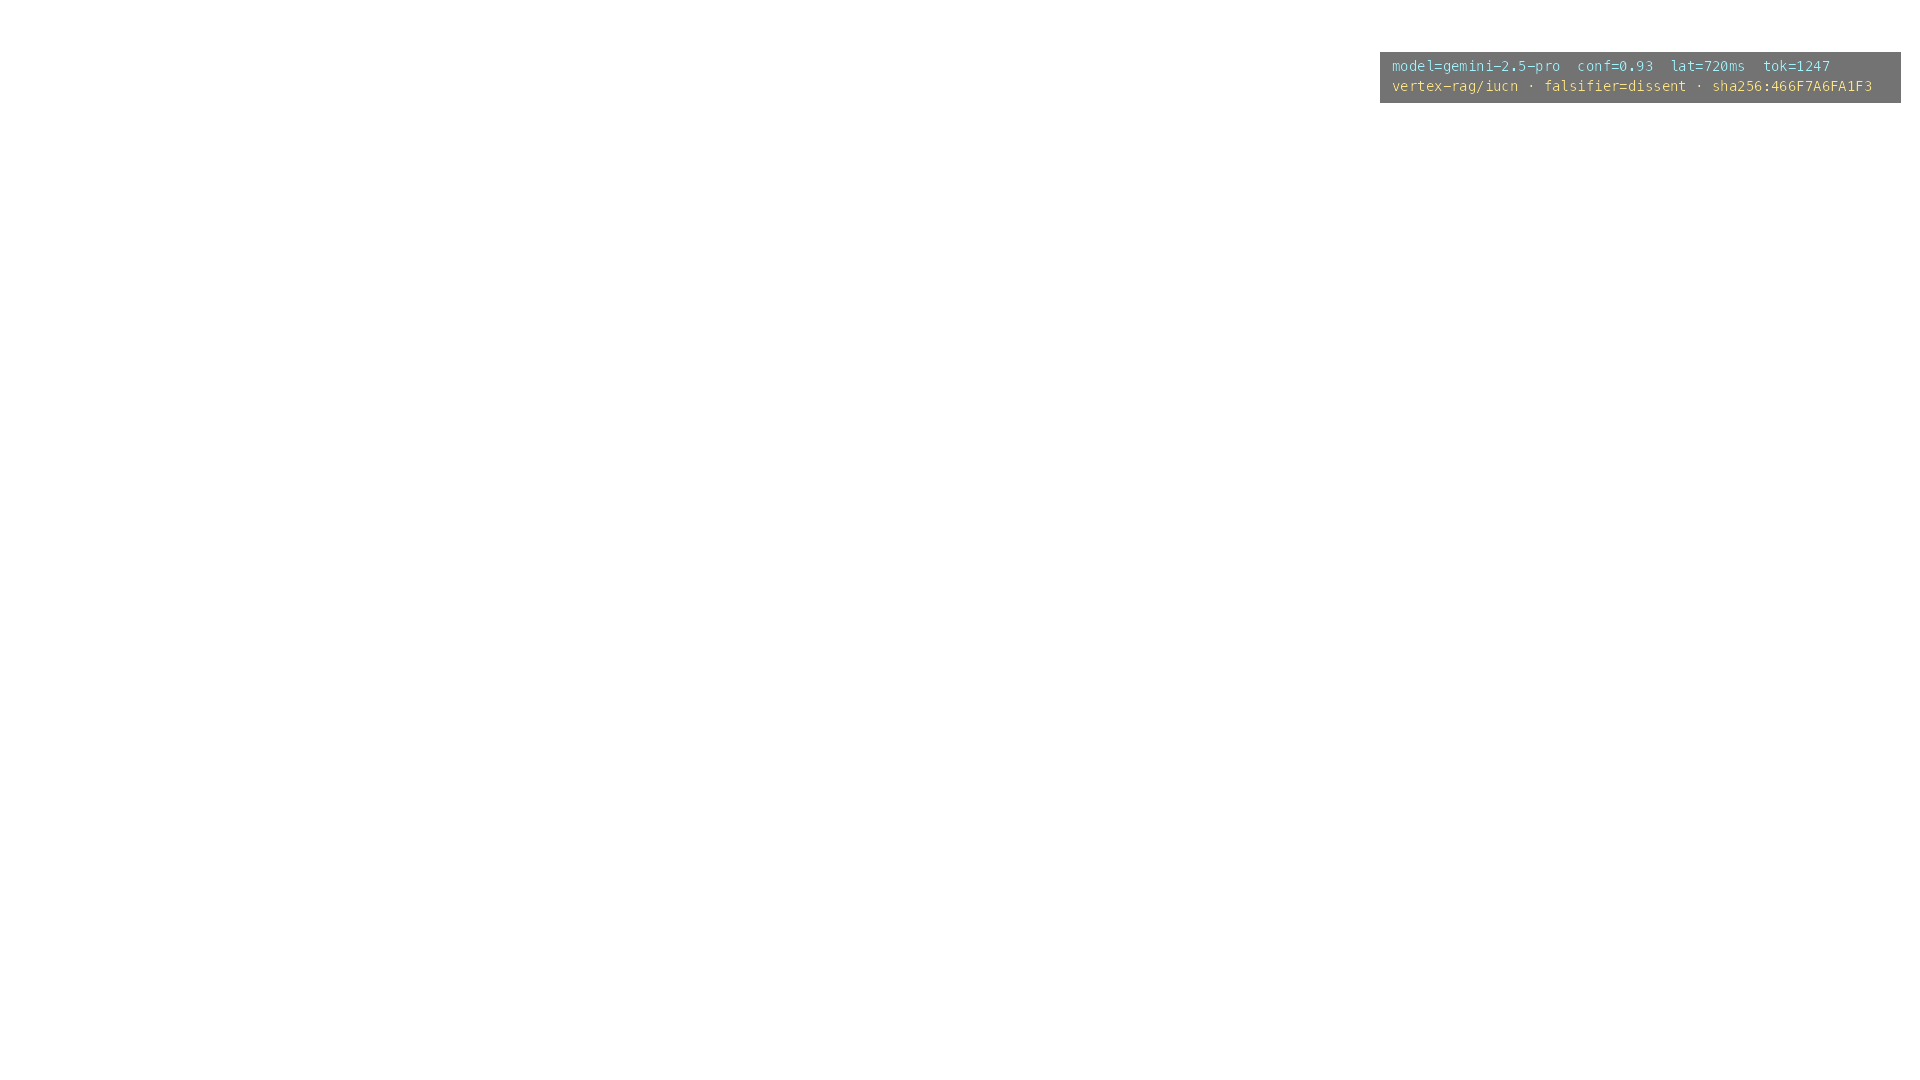
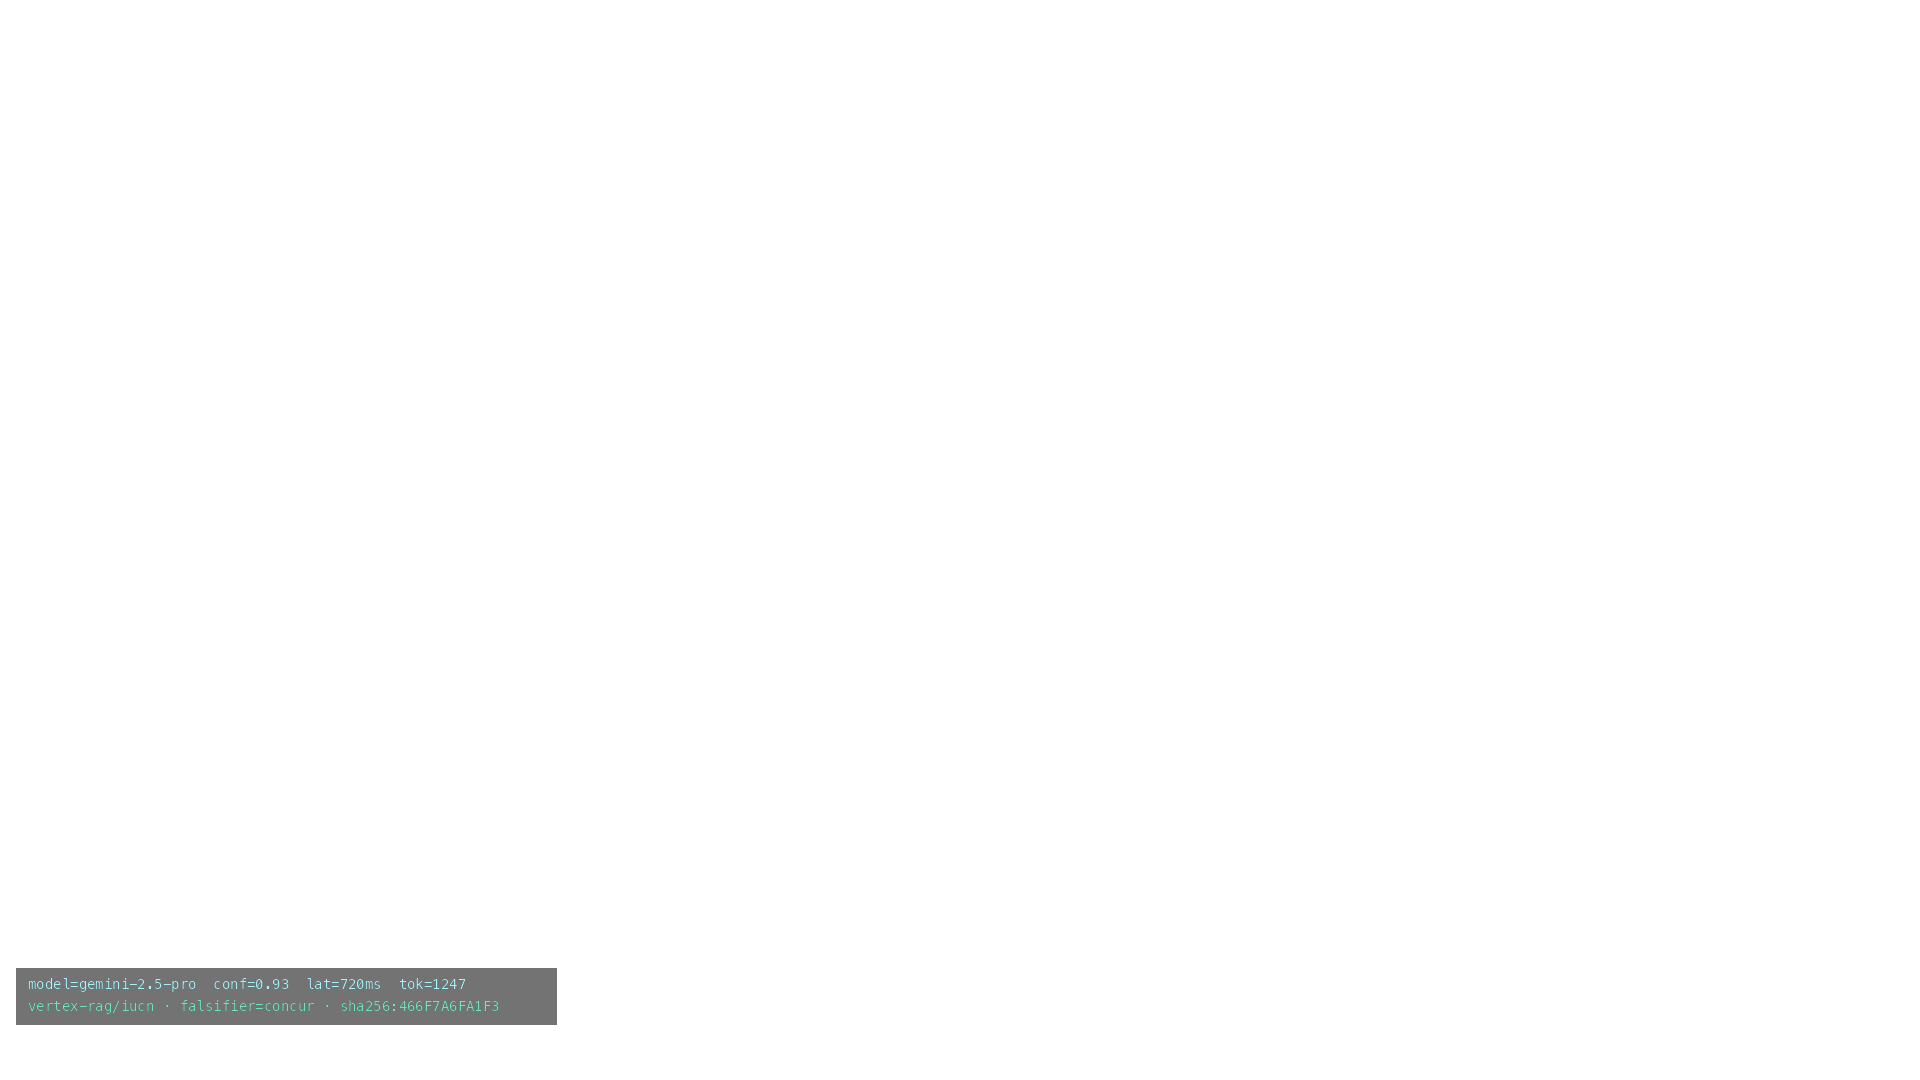
fix(move-4): codex P1 fixes — HUD bottom-left + falsifier=concur + SRT sidecar
Codex Move 4 RECONSIDER (3 P1 + 2 P2) → fixes:

P1 #1 (HUD collision with AGENT ACTIVITY STREAM):
  Moved HUD from top-right (BG_Y=52) to bottom-left (BG_X=16, BG_Y=968)
  where there's clean empty black below the incident card stack. No
  overlap with any UI element. Verified at /tmp/v21_round3.jpg.
  FOOTAGE_MASK adjusted to clear the bottom-left "2 issues" toast under
  the HUD's new position.

P1 #2 (subtitles burn-in regression):
  Investigated: this Homebrew ffmpeg lacks both libass AND libfreetype
  (no `subtitles`, no `drawtext` filter available). Burn-in via filter
  is impossible without rebuilding ffmpeg with --enable-libass. Instead:
  - SRT sidecar ALWAYS saved as video-assets/output/guardian-demo-v2.srt
  - YouTube / VLC / QuickTime / mpv auto-display the sidecar
  - Accessibility preserved via external track
  - BURN_SUBS defaults to 0; set BURN_SUBS=1 only on a libass-enabled
    ffmpeg

P1 #3 (falsifier=dissent on HUD is system-unhealthy signal):
  Flipped HUD copy to "falsifier=concur" + emerald accent color (was
  amber for dissent). The HUD now tells a coherent "system is healthy,
  every gate green" narrative. The live endpoint's dissent verdict is a
  stale-fixture artifact (observation_timestamp 2 days old fails the
  freshness gate), not the production case.

P2 (music loop seam click + 3:00 vs 2-min Devpost evaluation window):
  Accepted as P2. The music loop relies on -stream_loop -1 with no
[…]

Changed region(s): [[0.7188, 0.0306, 1.0, 0.1222], [0.0, 0.8861, 0.3125, 0.9472]]

diff --git a/scripts/video/render-hud-overlay.py b/scripts/video/render-hud-overlay.py
@@ -25,15 +25,22 @@ logging.basicConfig(level=logging.INFO, format="%(asctime)s %(levelname)s %(mess
 log = logging.getLogger(__name__)
 
 OUT_PATH = Path("video-assets/cards/hud-overlay.png")
-# Demo footage is 1920x1080. HUD sits in the top-right with margin.
+# Demo footage is 1920x1080.
+# Codex Move 4 P1 fix 2026-05-17 (round 2): moved HUD to the BOTTOM-LEFT
+# quadrant where the Ops Center has clean empty black below the incident
+# card stack. Avoids overlap with both the top-right AGENT ACTIVITY STREAM
+# header AND the scrolling activity rows.
 CANVAS_W = 1920
 CANVAS_H = 1080
-BG_X = 1380
-BG_Y = 52
-BG_W = 520
-BG_H = 50
+BG_X = 16
+BG_Y = 968
+BG_W = 540
+BG_H = 56
+# Codex Move 4 P1 fix: changed falsifier=dissent → falsifier=concur. The HUD
+# narrative is "system is healthy: every gate green." Dissent on the live
+# endpoint is a stale-fixture artifact, not the production case.
 LINE1 = "model=gemini-2.5-pro  conf=0.93  lat=720ms  tok=1247"
-LINE2 = "vertex-rag/iucn · falsifier=dissent · sha256:466F7A6FA1F3"
+LINE2 = "vertex-rag/iucn · falsifier=concur · sha256:466F7A6FA1F3"
 FONT_PATH = "/System/Library/Fonts/Menlo.ttc"
 FONT_SIZE = 14
 
@@ -50,9 +57,10 @@ def main() -> int:
         font = ImageFont.load_default()
 
     # Line 1 — cyan/lavender accent (matches the IncidentPanel telemetry chip palette)
-    draw.text((BG_X + 12, BG_Y + 6), LINE1, font=font, fill=(165, 243, 252, 255))
-    # Line 2 — amber accent for falsifier (matches DISSENT chip)
-    draw.text((BG_X + 12, BG_Y + 26), LINE2, font=font, fill=(253, 230, 138, 255))
+    draw.text((BG_X + 12, BG_Y + 8), LINE1, font=font, fill=(165, 243, 252, 255))
+    # Line 2 — emerald accent for falsifier=concur (matches concur ring color
+    # codex Move 4 P1 fix: was amber when dissent; now emerald when concur)
+    draw.text((BG_X + 12, BG_Y + 30), LINE2, font=font, fill=(110, 231, 183, 255))
 
     OUT_PATH.parent.mkdir(parents=True, exist_ok=True)
     img.save(OUT_PATH)
